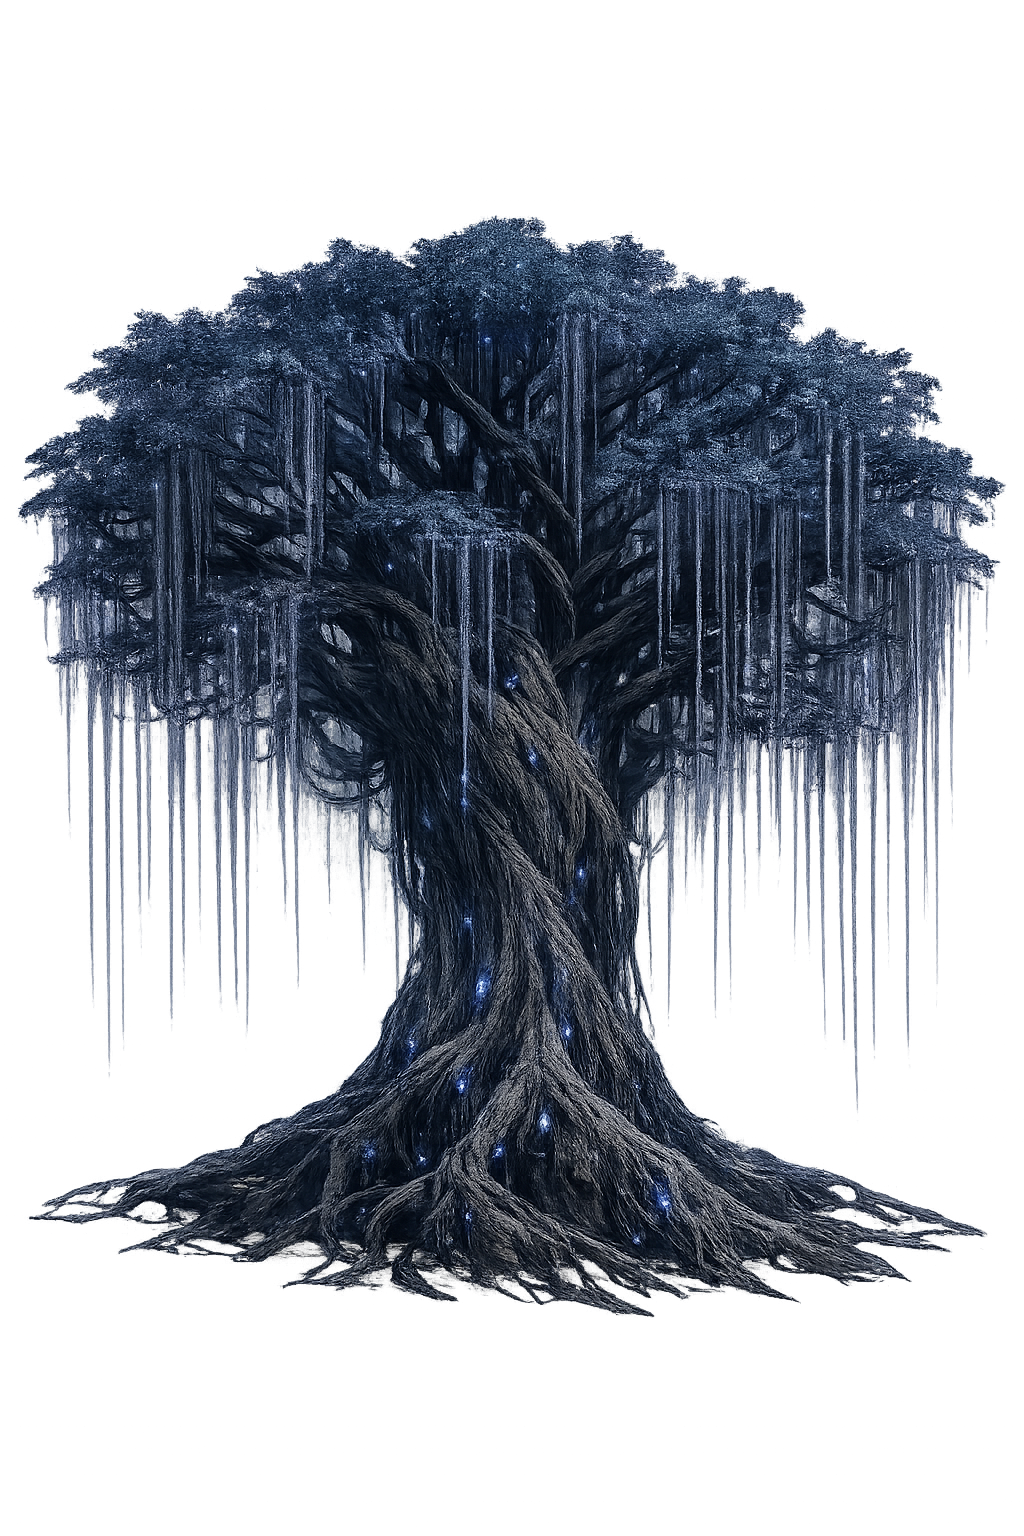
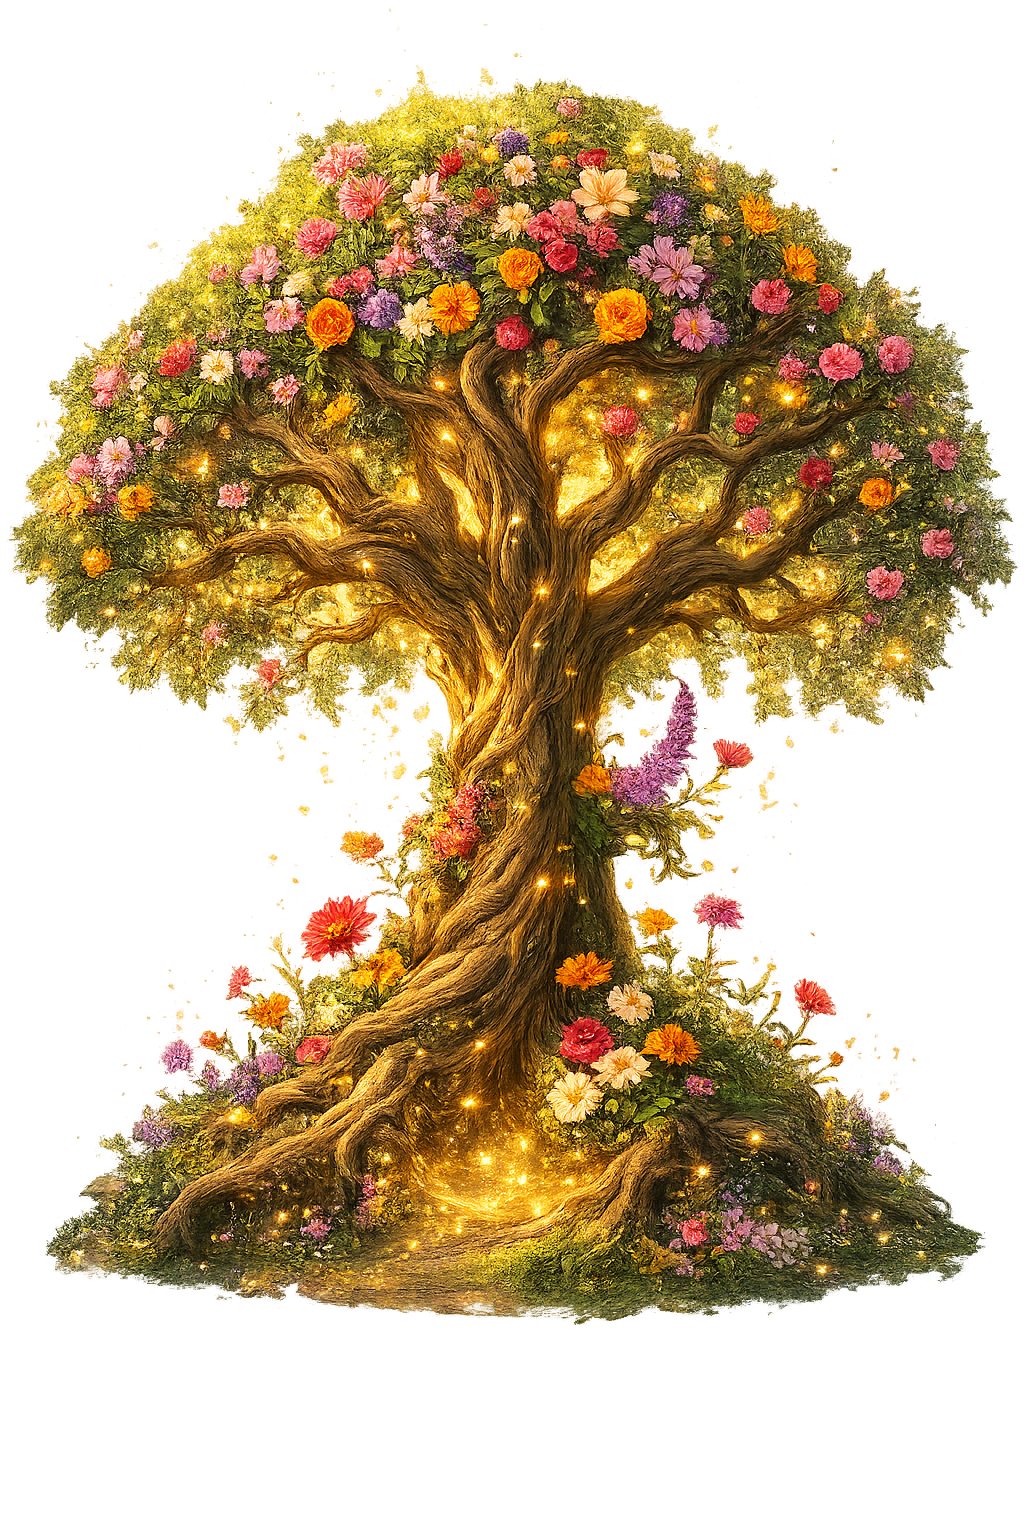
Replace tree with colorful fantasy tree; mix-blend-mode screen for seamless bg blending

diff --git a/index.html b/index.html
@@ -148,7 +148,7 @@ html,body{width:100%;height:100%;overflow:hidden;background:#080614;font-family:
 
 .screen{position:fixed;inset:0;display:flex;flex-direction:column;align-items:center;background:transparent;opacity:0;pointer-events:none;transition:none;z-index:1}
 .screen.active{opacity:1;pointer-events:all;z-index:2}
-.tree-layer{position:absolute;bottom:-4%;left:50%;transform:translateX(-50%);z-index:10;pointer-events:none;width:auto;height:90vh}.tree-layer img{height:100%;width:auto;display:block}
+.tree-layer{position:absolute;bottom:-4%;left:50%;transform:translateX(-50%);z-index:10;pointer-events:none;width:auto;height:90vh;mix-blend-mode:screen}.tree-layer img{height:100%;width:auto;display:block}
 .tree-click{pointer-events:auto!important;cursor:pointer;transition:filter .4s}
 .tree-click:hover img{filter:brightness(1.18) drop-shadow(0 0 40px rgba(168,232,255,0.55)) drop-shadow(0 0 80px rgba(168,232,255,0.25))}
 .tree-hint{position:absolute;bottom:16%;left:50%;transform:translateX(-50%);font-size:13px;letter-spacing:.14em;color:rgba(168,232,255,0.6);z-index:60;pointer-events:none;white-space:nowrap;animation:hint-pulse 2.8s ease-in-out infinite}
